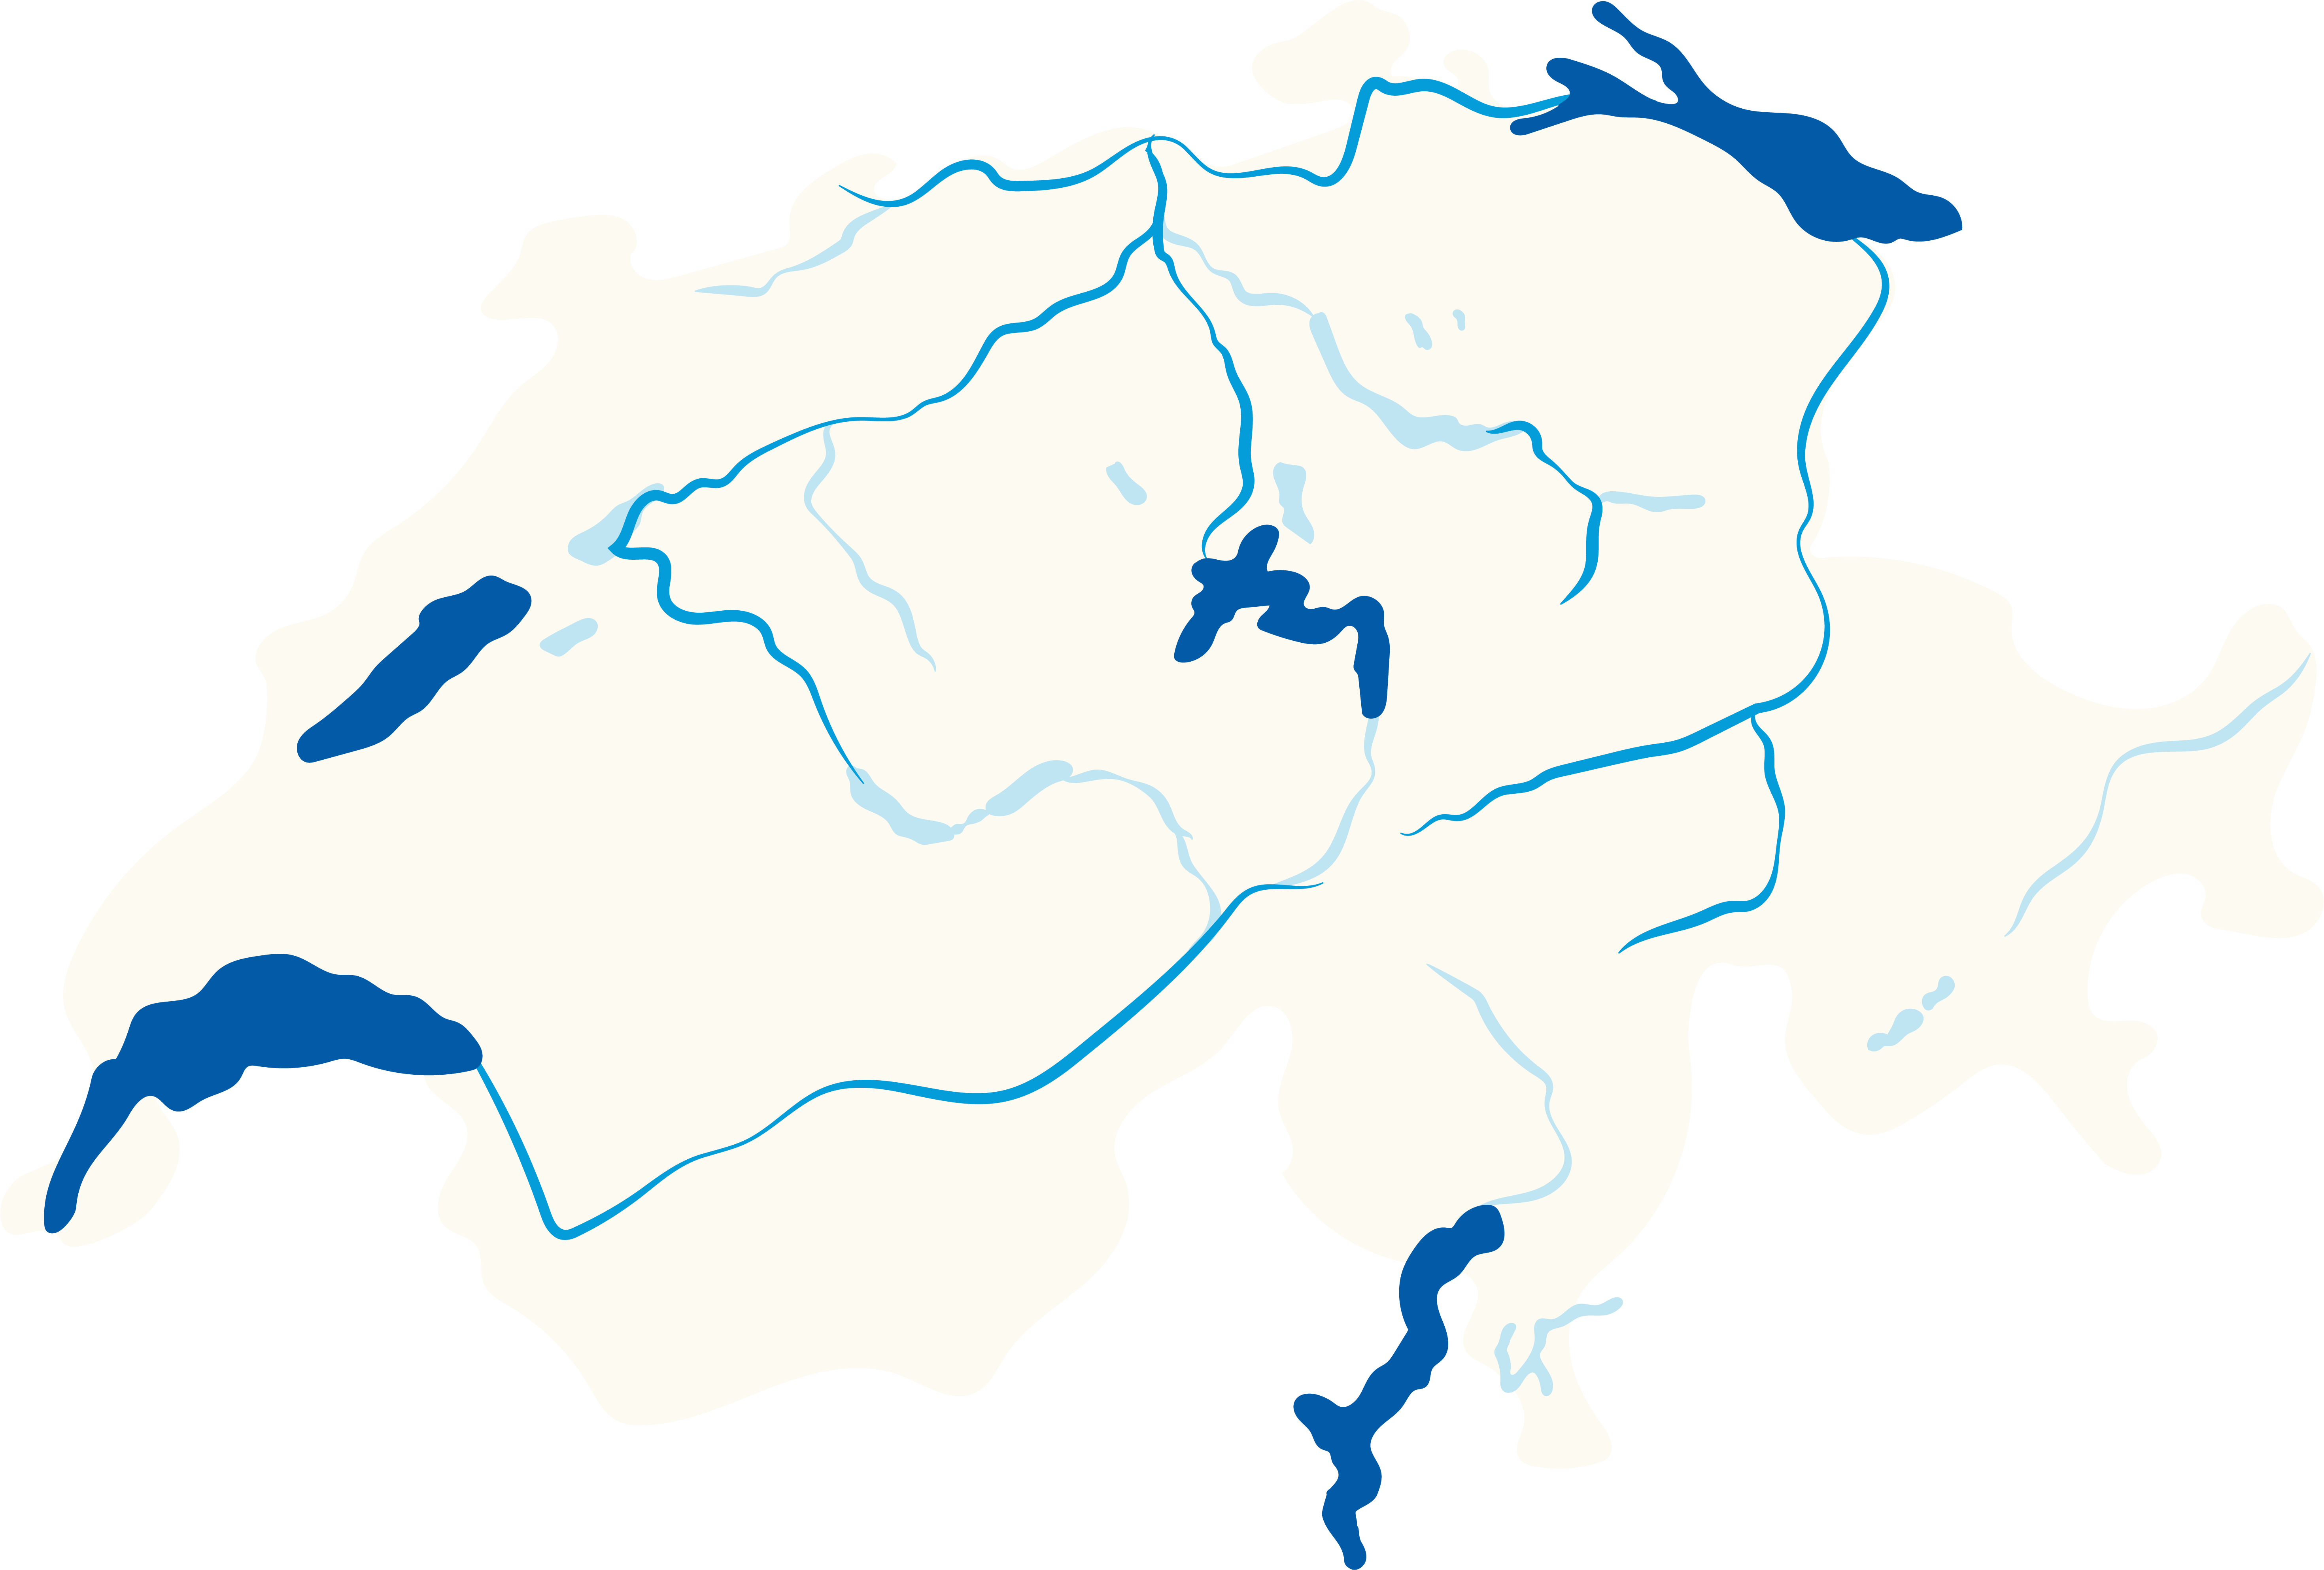
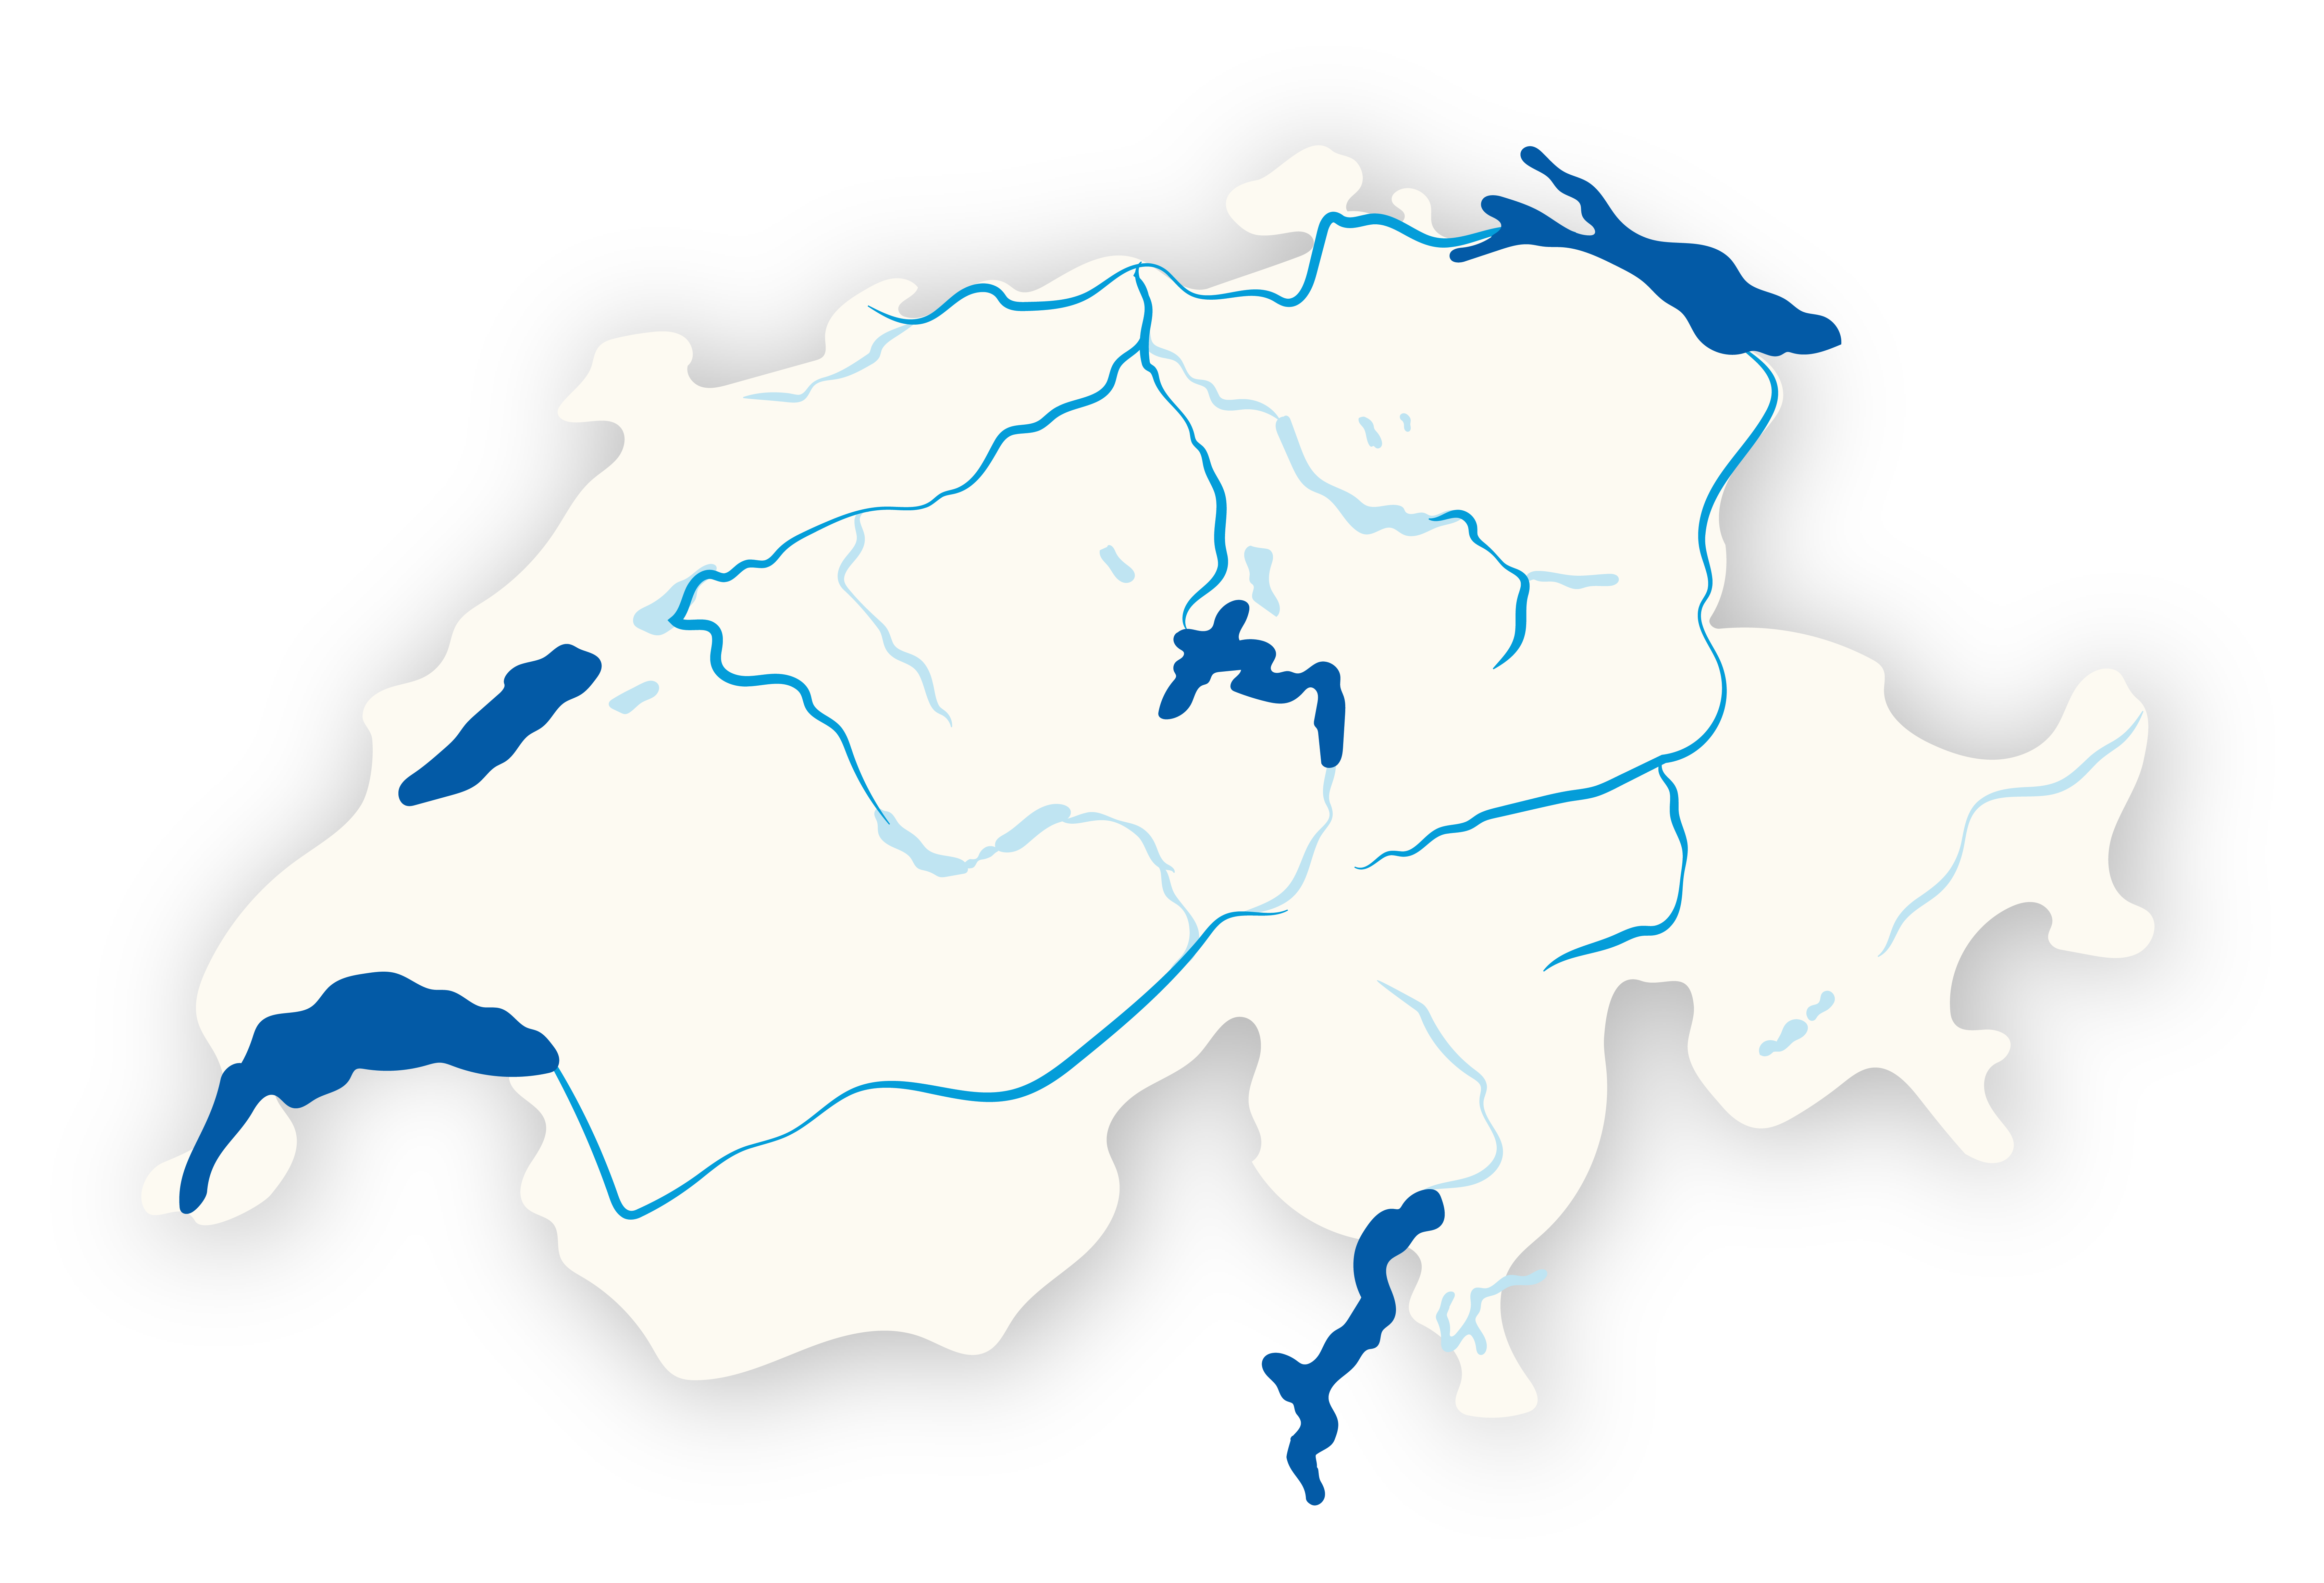
Amend img. Karte
img ersetzt und grösse im CCS angepasst

diff --git a/css/style.css b/css/style.css
@@ -53,9 +53,9 @@ p {font-size: 0.75rem;font-weight: 400;color: var(--color4);}
 /*** Die Karte ***/
 .karte {
   position: relative; /*Ankerpunkt Elemente*/ 
-  display: inline-block;
-  width: 100%;
-  max-width: 1000px;
+  display: block;
+  width: 80%;
+  max-width: 2000px; /* grösse karte */ 
   margin: 0 auto;
   border: 3px solid red; /* ← nur zum Testen! */
 }
@@ -71,14 +71,13 @@ p {font-size: 0.75rem;font-weight: 400;color: var(--color4);}
   display: flex;
   justify-content: center;
   align-items: center;
-  padding: var(--ga-medium);
 }
 
 /*** Die Pins ***/
 .pin img {
   object-fit: contain;
-  height: 30px;
-  width: 30px; 
+  height: 40px;
+  width: 40px; 
 }
 
 .pin {
@@ -88,11 +87,12 @@ p {font-size: 0.75rem;font-weight: 400;color: var(--color4);}
   transform: translate(-50%, -100%) /*** test ***/
 }
 
-#pin_reuss  { top: 25%; left: 54%; }
-#pin_aare   { top: 28%; left: 38%; }
-#pin_linth  { top: 33%; left: 69%; }
-#pin_rhone  { top: 70%; left: 43%; }
-#pin_rhein  { top: 46%; left: 75%; }
+/* Platzierung Pins*/
+#pin_reuss  { top: 26%; left: 54%; }
+#pin_aare   { top: 33%; left: 38%; }
+#pin_linth  { top: 36%; left: 65%; }
+#pin_rhone  { top: 69%; left: 43%; }
+#pin_rhein  { top: 49%; left: 70%; }
 
 /*** Das Popup ***/
 .infobox {
@@ -103,8 +103,9 @@ p {font-size: 0.75rem;font-weight: 400;color: var(--color4);}
   padding: var(--ga-medium);
   bottom: 5%; 
   right: 5%;
-  min-width: 200px;
+  width: 280px;
   box-shadow: 0px 4px 10px var(--color3);
+  display: none; /* Nicht sichtbar, erst bei Klick auf Pin via js-Befehl */
     
 
   h1 {color:var(--surface); margin: 0; margin-top: 1.5rem; }
@@ -187,3 +188,7 @@ footer dotlottie-wc {
   h4 { font-size: 0.9rem; font-weight: 400; }
   p { font-size: 0.6rem; font-weight: 400; color: var(--color4); }
 }
+ //***
+.infobox {
+  width: 180px; !!! 
+}*/// 